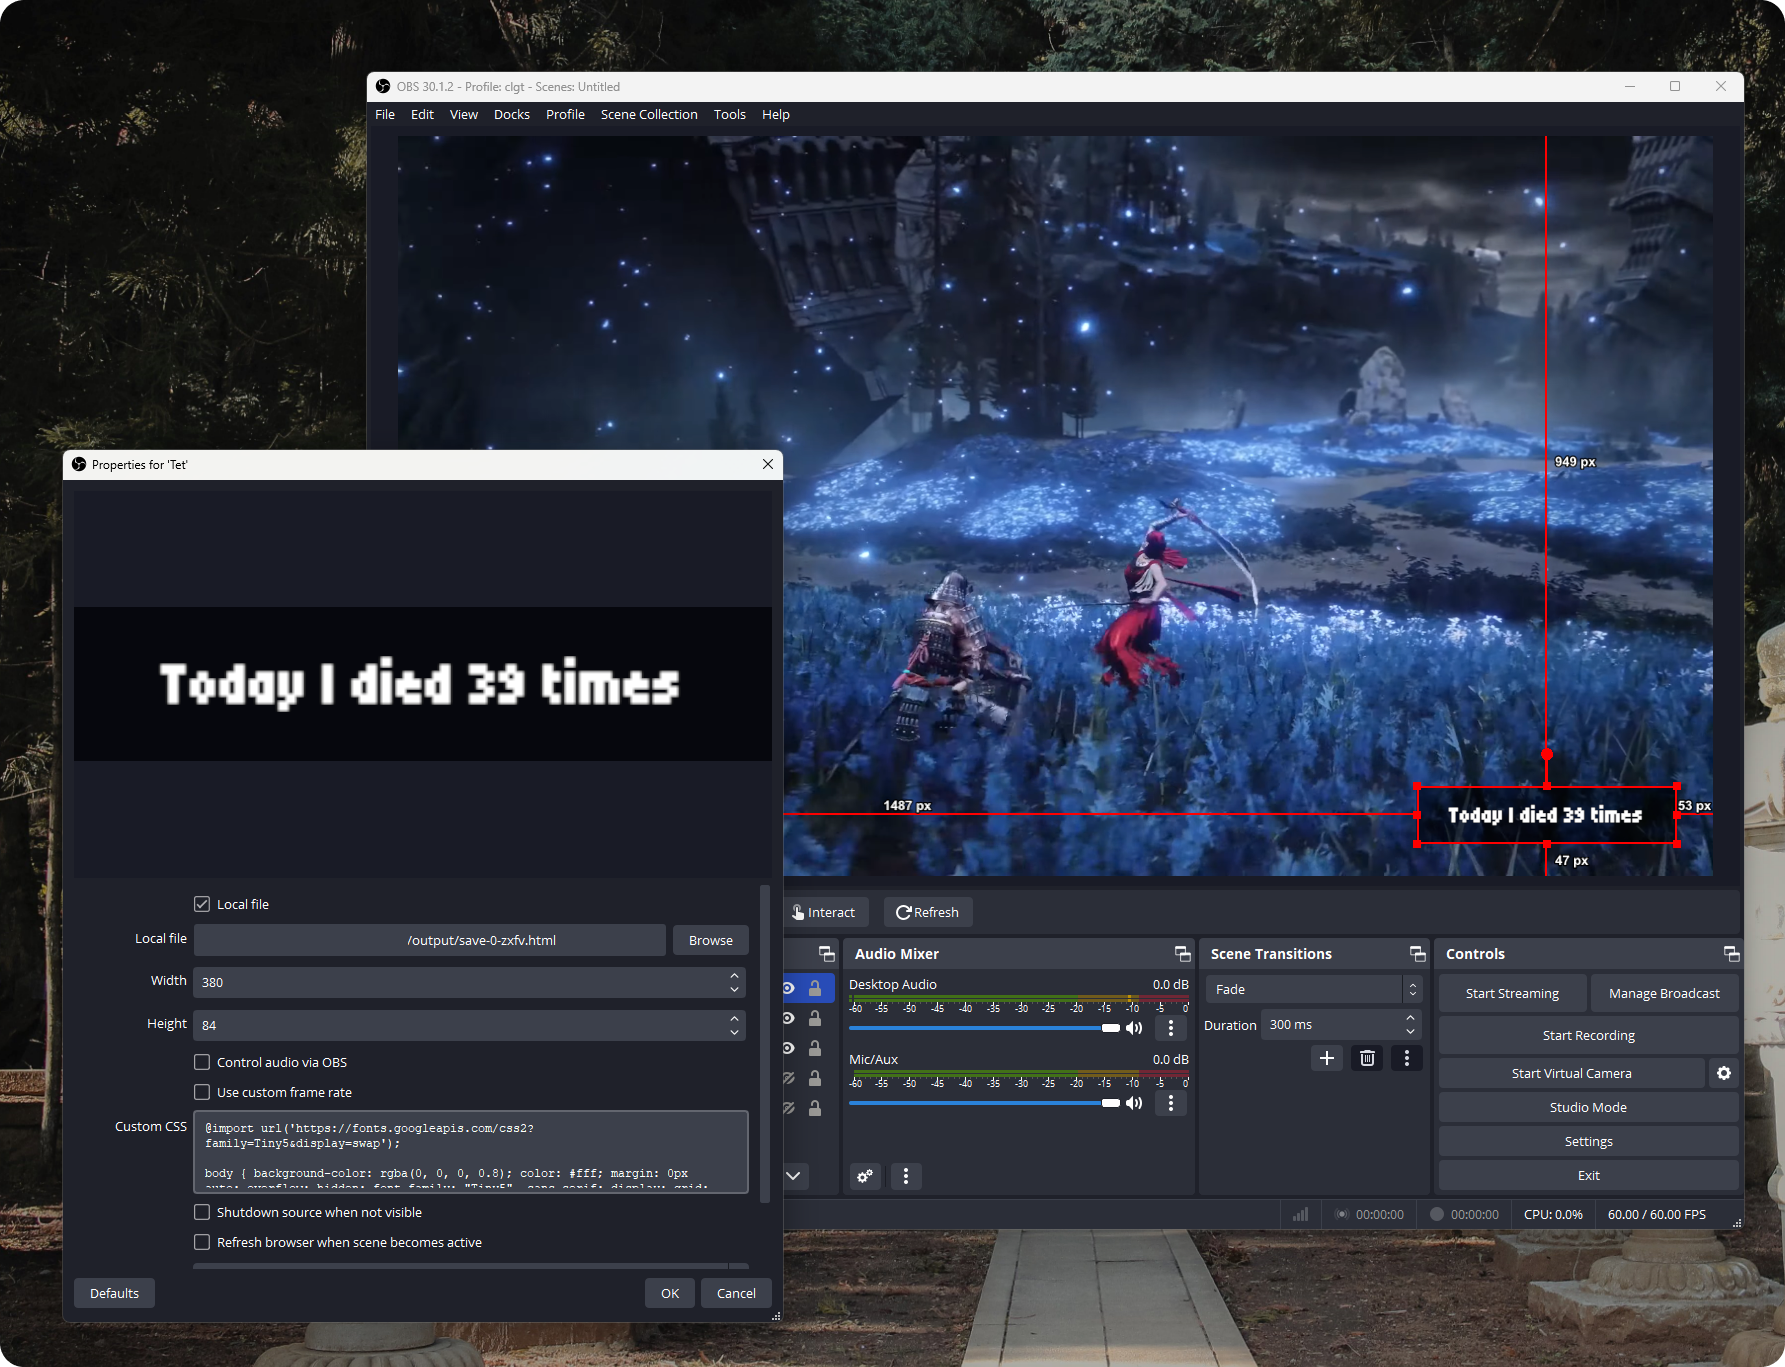
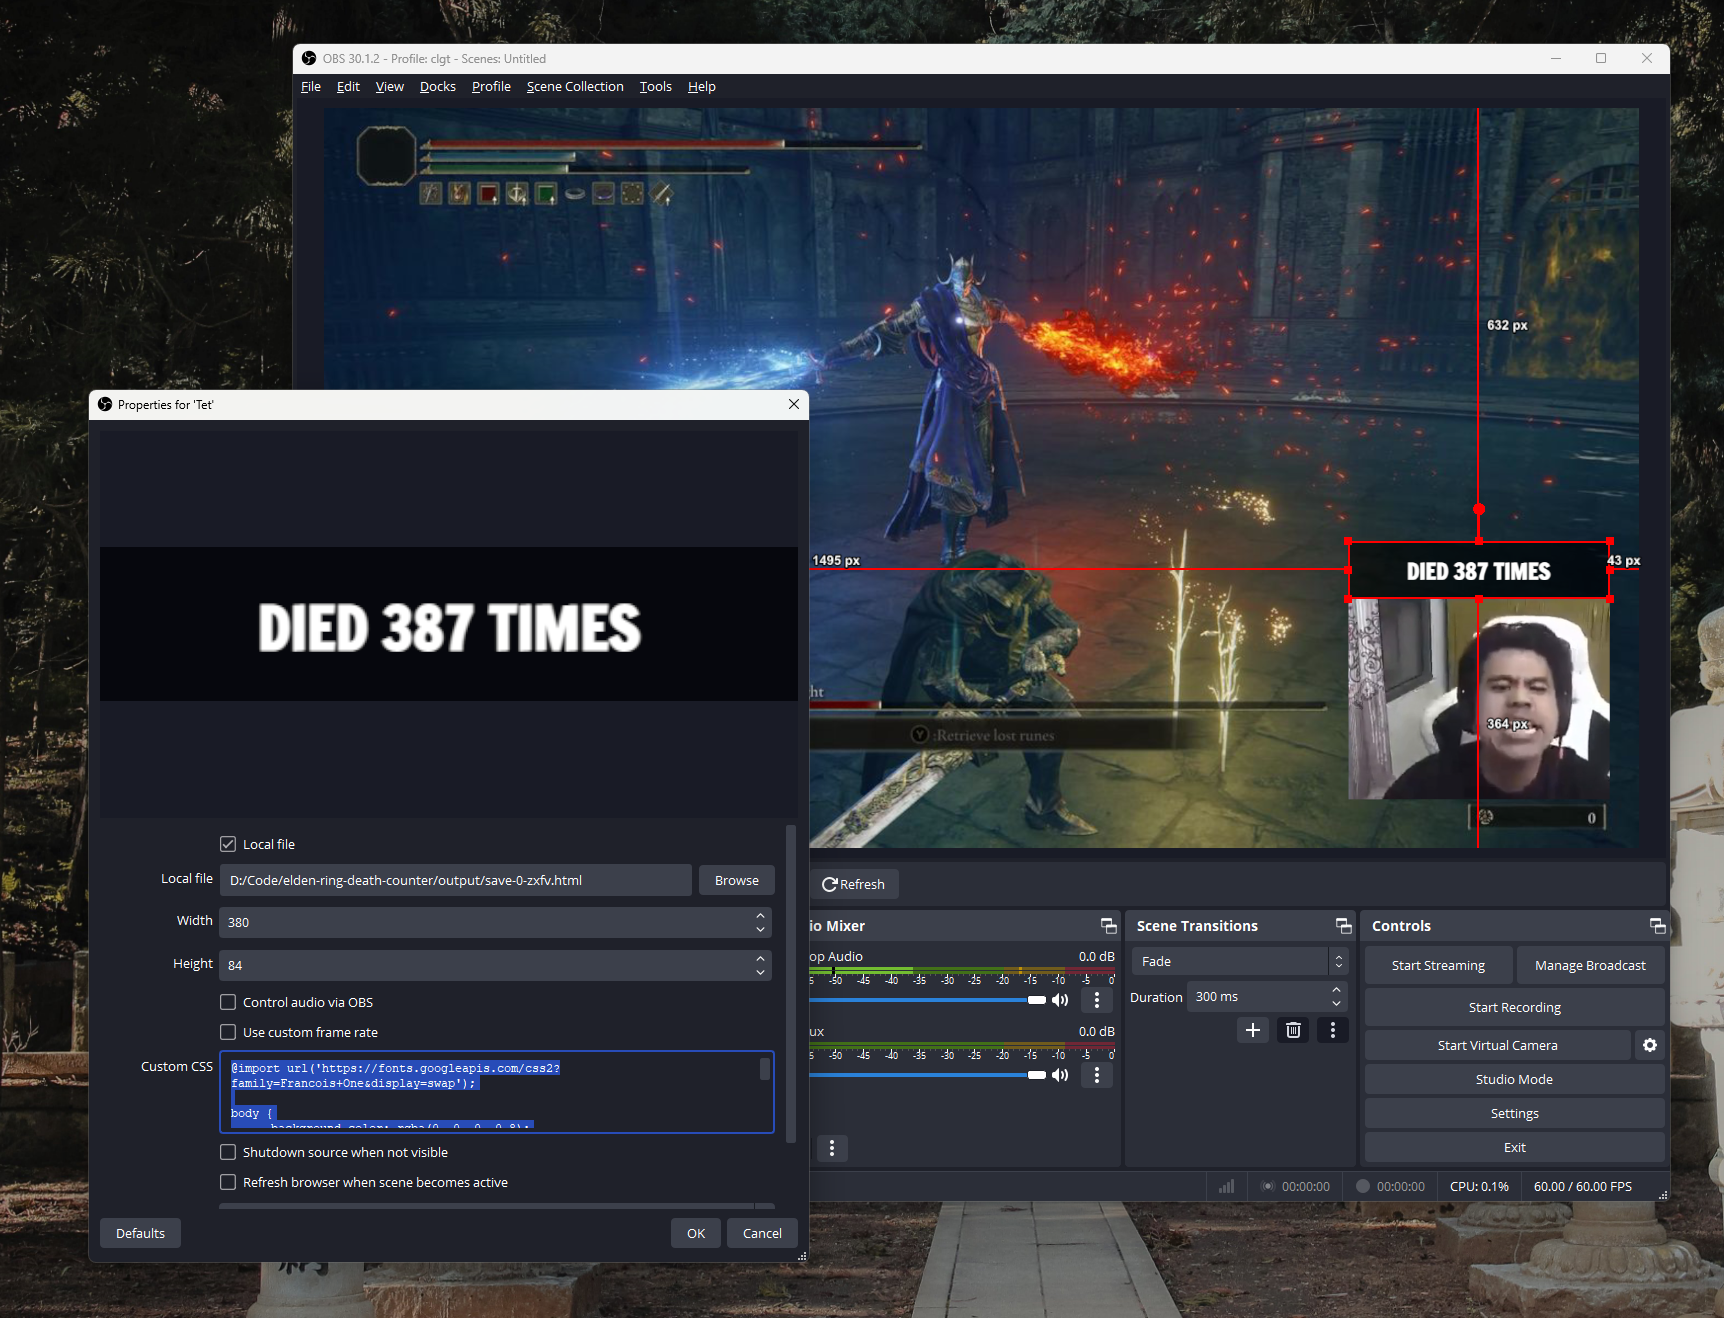
update preview

diff --git a/README.md b/README.md
@@ -59,9 +59,20 @@ OBS Browser Source Example:
 - Height: `84`
 - Custom CSS:
 ```css
-@import url('https://fonts.googleapis.com/css2?family=Tiny5&display=swap');
+@import url('https://fonts.googleapis.com/css2?family=Francois+One&display=swap');
 
-body { background-color: rgba(0, 0, 0, 0.8); color: #fff; margin: 0px auto; overflow: hidden; font-family: "Tiny5", sans-serif; display: grid; place-items: center }
+body {
+	background-color: rgba(0, 0, 0, 0.8);
+	color: #fff;
+	margin: 0px auto;
+	overflow: hidden;
+	font-family: "Francois One", sans-serif;
+	display: grid;
+	place-items: center;
+	font-weight: 400;
+	text-transform: uppercase;
+	overflow: hidden;
+}
 ```
 
 ![](example.png)
